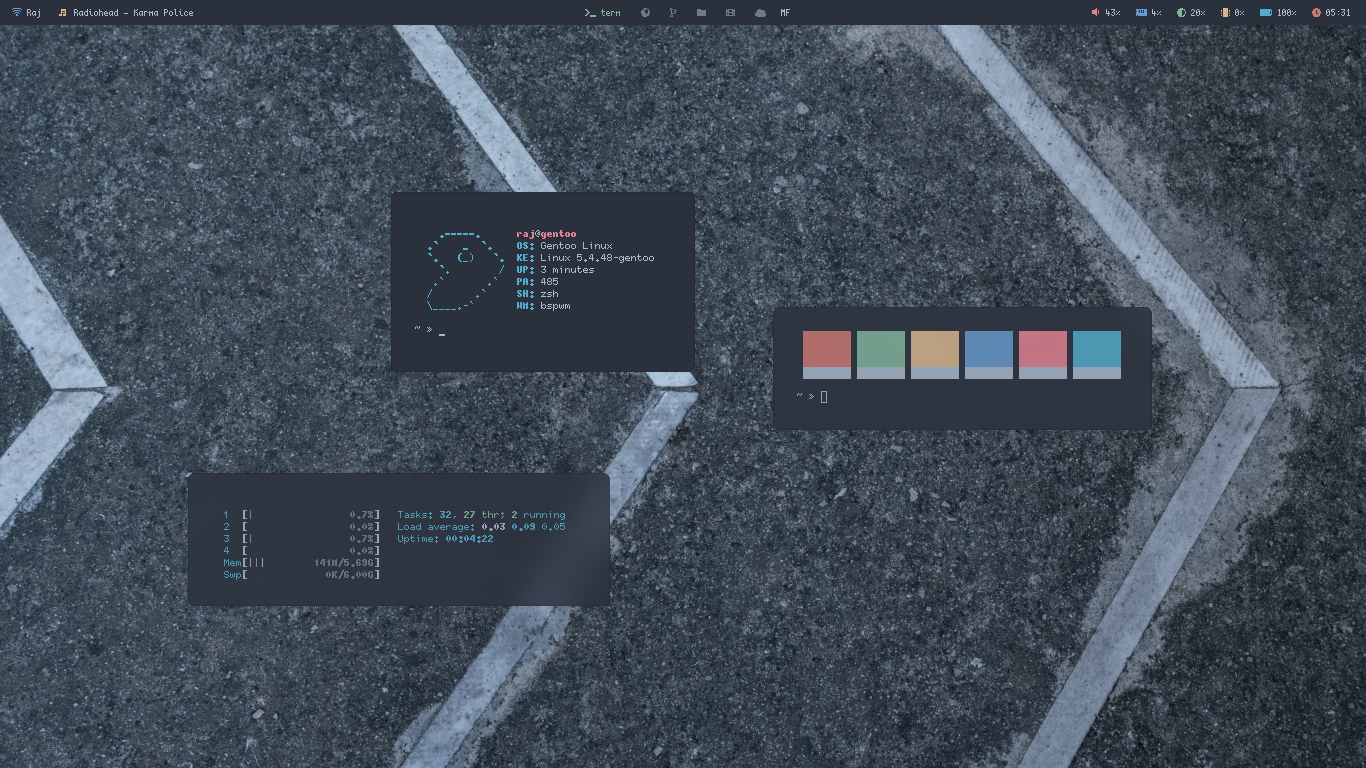
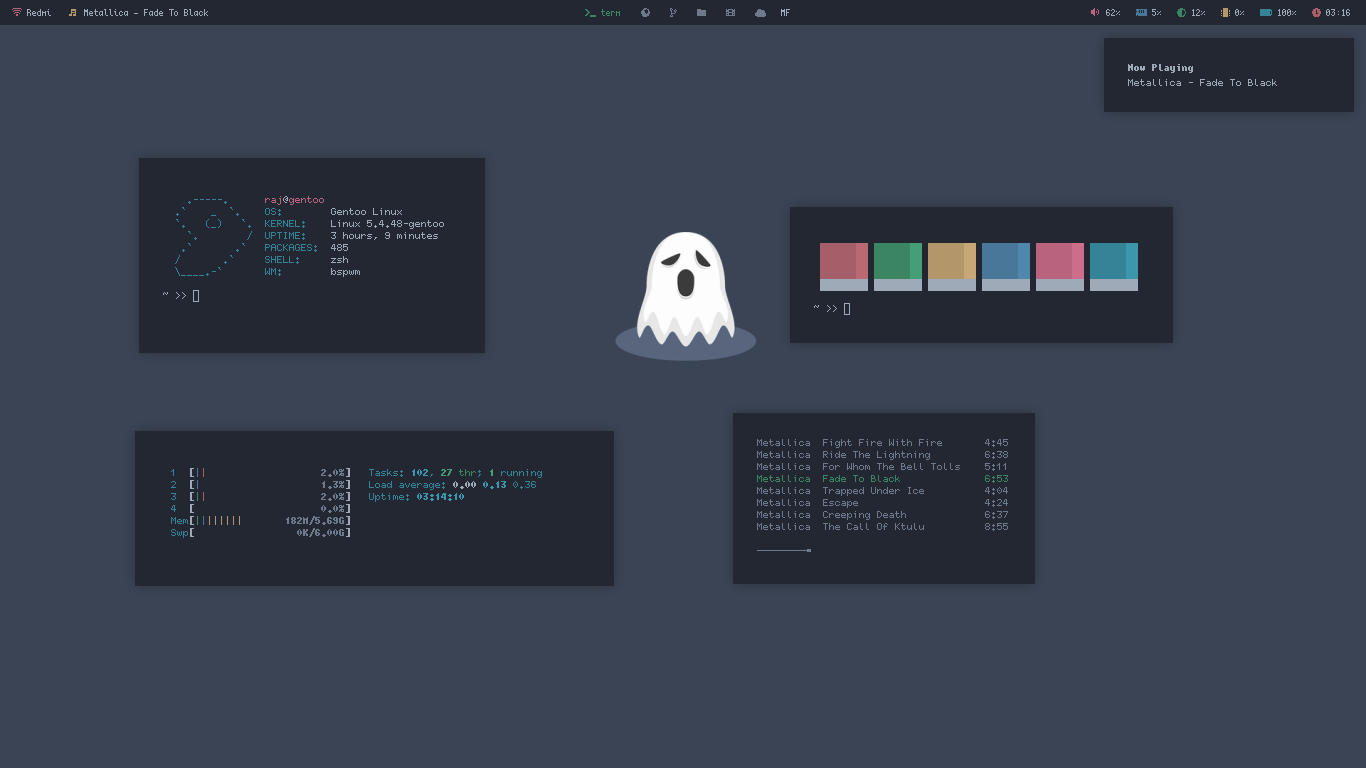
new screenshots

diff --git a/README.md b/README.md
@@ -8,7 +8,7 @@
 + **SHELL**             : Zsh
 + **EDITOR**            : Vim
 + **MUSIC PLAYER**      : Mpd + Ncmpcpp
-+ **BROWSER**           : Firefox
++ **BROWSER**           : Firefox [(startpage)](https://github.com/rajshekhar26/startpage)
 + **FILE MANAGER**      : Ranger
 + **NOTIFICATION**      : Dunst
 + **COMPOSITOR**        : Picom-ibhagwan
@@ -23,18 +23,19 @@
 
 ## <p align="center">Preview</p>
 
-+ **Fetch**, **Htop**, **Colorblocks**
++ **Colorscheme:** **Faint**
 
 ![screenshot](/Pictures/Screenshots/scrot1.png)
 
-+ **Firefox**, **Vim**
++ **Firefox**
 
 ![screenshot](/Pictures/Screenshots/scrot2.png)
 
-+ **Ncmpcpp**
++ **Colorscheme:** **Faint-Light**
 
 ![screenshot](/Pictures/Screenshots/scrot3.png)
 
-+ **Zathura**, **Neomutt**, **Newsboat**
++ **Colorscheme:** **Iris**
 
 ![screenshot](/Pictures/Screenshots/scrot4.png)
+
